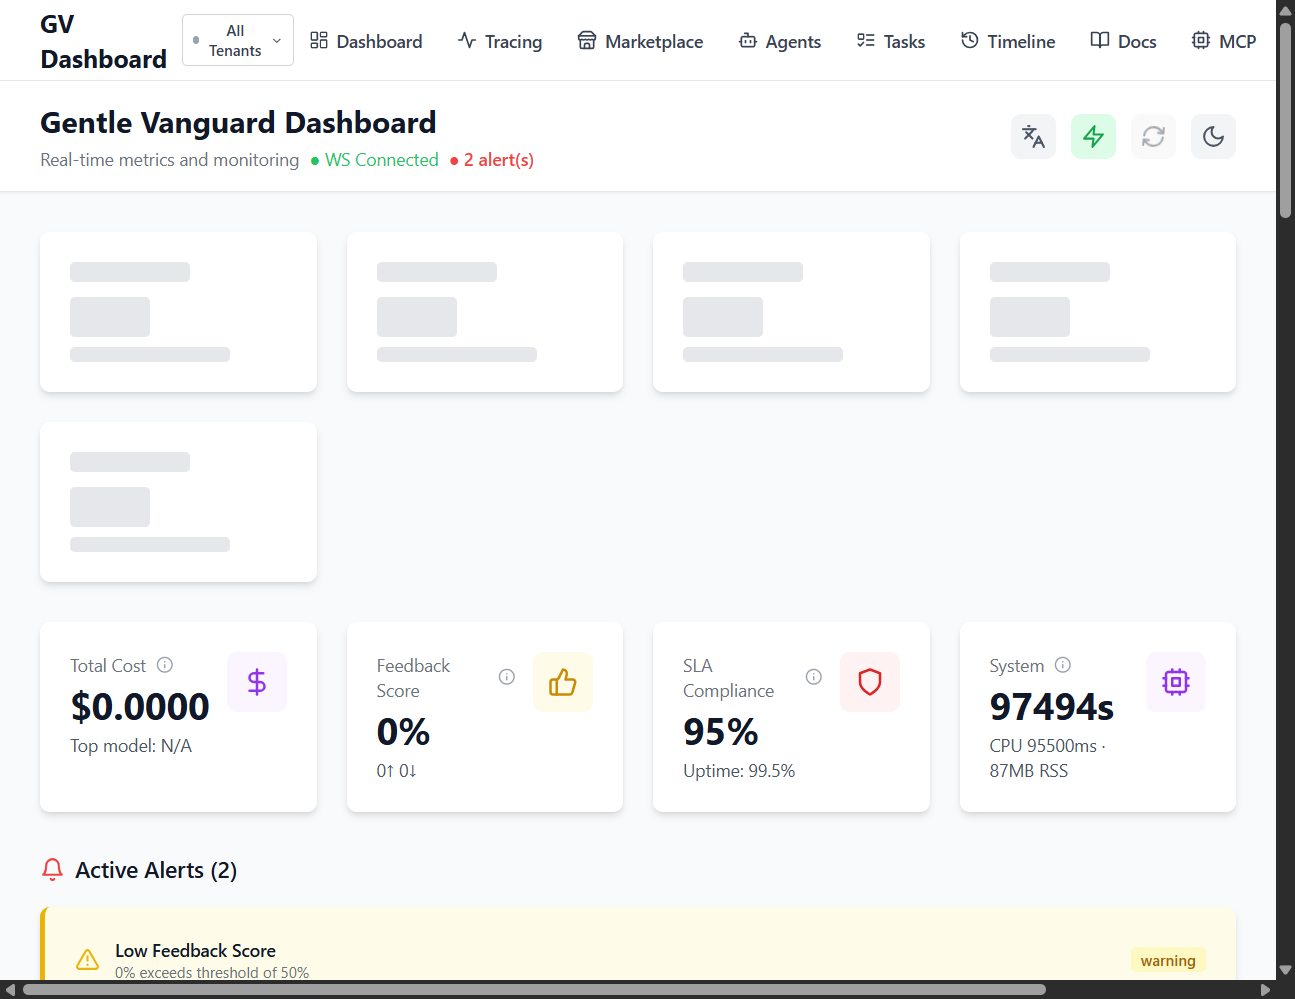
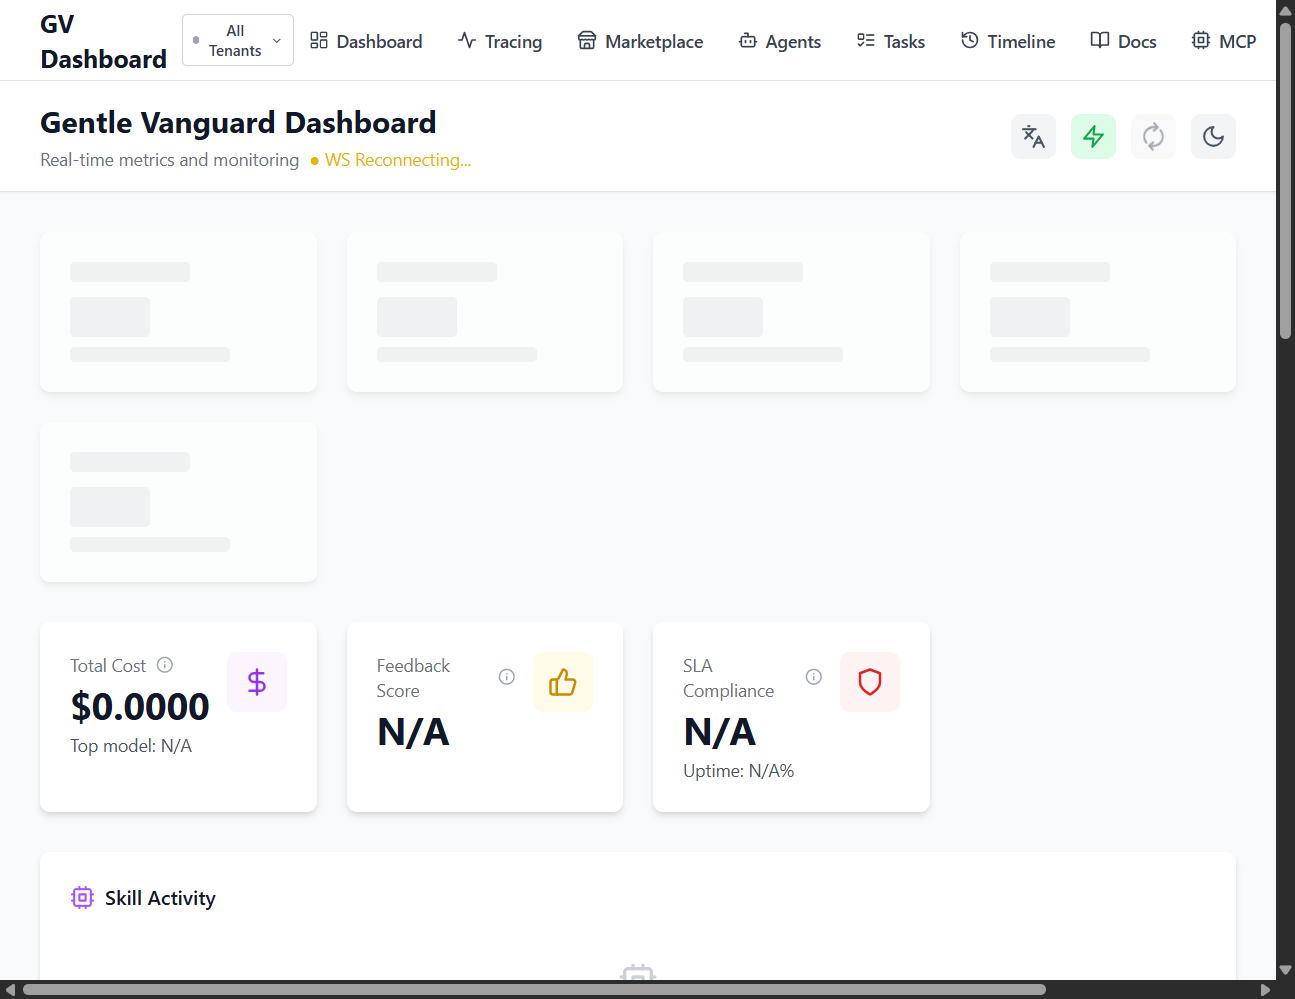
feat(dashboard): add SkillHeatmap component — visual skill activity grid with intensity colors

diff --git a/apps/web-dashboard/src/components/SkillHeatmap.tsx b/apps/web-dashboard/src/components/SkillHeatmap.tsx
@@ -1,0 +1,102 @@
+import { useMemo } from 'react';
+import { Cpu } from 'lucide-react';
+
+interface SkillHeatmapProps {
+  bySkill: Record<string, number>;
+  totalSkills: number;
+  totalCalls: number;
+}
+
+// Color palette by usage intensity (Tailwind)
+const HEAT_COLORS = [
+  'bg-gray-100 text-gray-600 dark:bg-gray-800 dark:text-gray-400',   // 0 calls
+  'bg-blue-50 text-blue-700 dark:bg-blue-950/40 dark:text-blue-300', // low
+  'bg-blue-100 text-blue-700 dark:bg-blue-900/40 dark:text-blue-300',
+  'bg-blue-200 text-blue-800 dark:bg-blue-800/40 dark:text-blue-200',
+  'bg-indigo-200 text-indigo-800 dark:bg-indigo-800/40 dark:text-indigo-200',
+  'bg-indigo-300 text-indigo-900 dark:bg-indigo-700/40 dark:text-indigo-200',
+  'bg-purple-300 text-purple-900 dark:bg-purple-700/40 dark:text-purple-200',
+  'bg-purple-400 text-white dark:bg-purple-600/60 dark:text-white',
+  'bg-violet-500 text-white dark:bg-violet-500/60 dark:text-white',  // high
+];
+
+function getHeatLevel(count: number, maxCount: number): number {
+  if (count === 0) return 0;
+  if (maxCount === 0) return 1;
+  const ratio = count / maxCount;
+  if (ratio >= 0.9) return 8;
+  if (ratio >= 0.7) return 7;
+  if (ratio >= 0.5) return 6;
+  if (ratio >= 0.35) return 5;
+  if (ratio >= 0.2) return 4;
+  if (ratio >= 0.1) return 3;
+  return 2;
+}
+
+function getFontSize(calls: number, maxCalls: number): string {
+  const ratio = calls / (maxCalls || 1);
+  if (ratio >= 0.5) return 'text-sm';
+  if (ratio >= 0.2) return 'text-xs';
+  return 'text-[11px]';
+}
+
+export function SkillHeatmap({ bySkill, totalSkills, totalCalls }: SkillHeatmapProps) {
+  const entries = useMemo(() => {
+    return Object.entries(bySkill)
+      .sort(([, a], [, b]) => b - a);
+  }, [bySkill]);
+
+  const maxCount = useMemo(() => {
+    if (entries.length === 0) return 0;
+    return Math.max(...entries.map(([, c]) => c));
+  }, [entries]);
+
+  if (entries.length === 0) {
+    return (
+      <div className="card">
+        <div className="flex items-center gap-2 mb-4">
+          <Cpu className="w-5 h-5 text-purple-500" />
+          <h3 className="font-semibold text-gray-900 dark:text-white">Skill Activity</h3>
+        </div>
+        <div className="text-center py-6 text-gray-400 dark:text-gray-500">
+          <Cpu className="w-8 h-8 mx-auto mb-2 opacity-50" />
+          <p className="text-sm">No MCP skill activity recorded yet</p>
+          <p className="text-xs mt-1">Skills appear here as they are used</p>
+        </div>
+      </div>
+    );
+  }
+
+  return (
+    <div className="card">
+      <div className="flex items-center justify-between mb-4">
+        <div className="flex items-center gap-2">
+          <Cpu className="w-5 h-5 text-purple-500" />
+          <h3 className="font-semibold text-gray-900 dark:text-white">Skill Activity</h3>
+        </div>
+        <div className="flex items-center gap-3 text-xs text-gray-500">
+          <span>{totalSkills} skills</span>
+          <span className="w-px h-3 bg-gray-300 dark:bg-gray-600" />
+          <span>{totalCalls.toLocaleString()} calls</span>
+        </div>
+      </div>
+
+      <div className="flex flex-wrap gap-1.5">
+        {entries.map(([skill, calls]) => {
+          const level = getHeatLevel(calls, maxCount);
+          const fontSize = getFontSize(calls, maxCount);
+          return (
+            <div
+              key={skill}
+              className={`px-2 py-1 rounded-md ${HEAT_COLORS[level]} ${fontSize} font-medium transition-colors hover:opacity-80 cursor-default`}
+              title={`${skill}: ${calls} call${calls !== 1 ? 's' : ''}`}
+            >
+              {skill}
+              <span className="ml-1 opacity-60">{calls}</span>
+            </div>
+          );
+        })}
+      </div>
+    </div>
+  );
+}

diff --git a/apps/web-dashboard/src/components/Dashboard.tsx b/apps/web-dashboard/src/components/Dashboard.tsx
@@ -36,6 +36,7 @@ import { NotificationToast } from './NotificationToast';
 import { ValidationPanel } from './ValidationPanel';
 import { AlertPanel } from './AlertPanel';
 import { LiveTraceFeed } from './LiveTraceFeed';
+import { SkillHeatmap } from './SkillHeatmap';
 import { InfoPopup } from './InfoPopup';
 import { LocaleContext, useLocale, LOCALE_NAMES, LOCALE_FLAGS, t } from '../hooks/useLocale';
 import type { Locale } from '../hooks/useLocale';
@@ -483,6 +484,15 @@ function DashboardInner() {
             </div>
           </div>
         )}
+
+        {/* Skill Activity Heatmap */}
+        <div className="mb-8">
+          <SkillHeatmap
+            bySkill={(data as any).mcp?.calls?.bySkill ?? {}}
+            totalSkills={(data as any).mcp?.skills?.total ?? 0}
+            totalCalls={(data as any).mcp?.calls?.total ?? 0}
+          />
+        </div>
 
         <div className="mb-8">
           <div className="flex items-center gap-2 mb-4">
